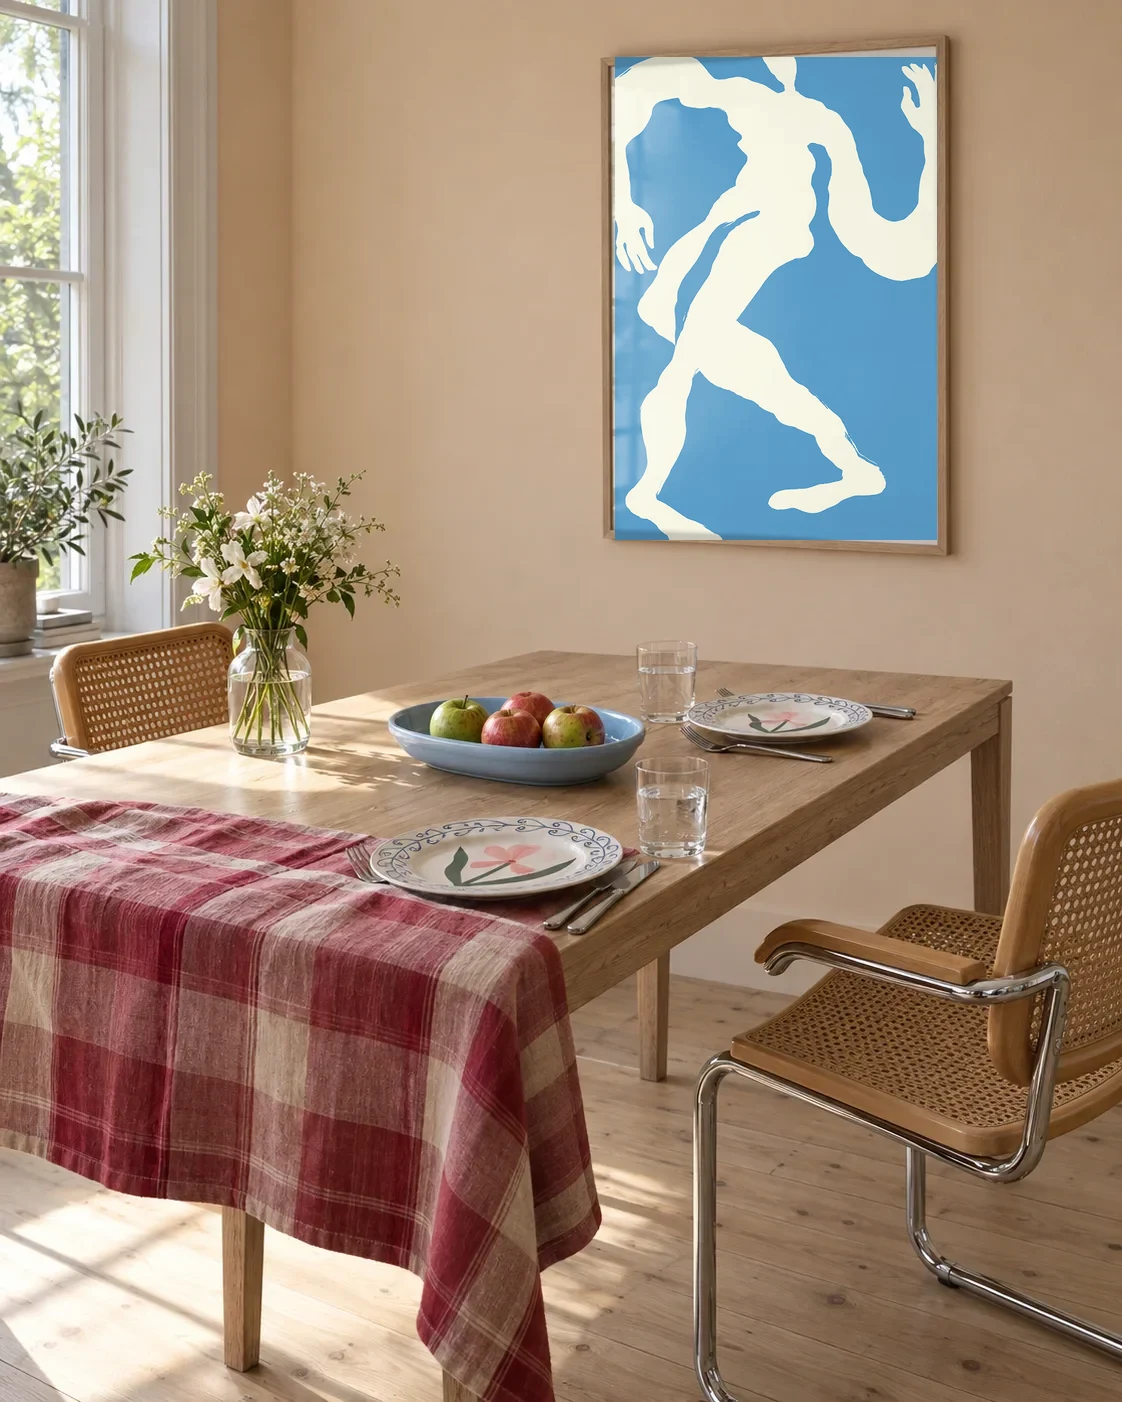
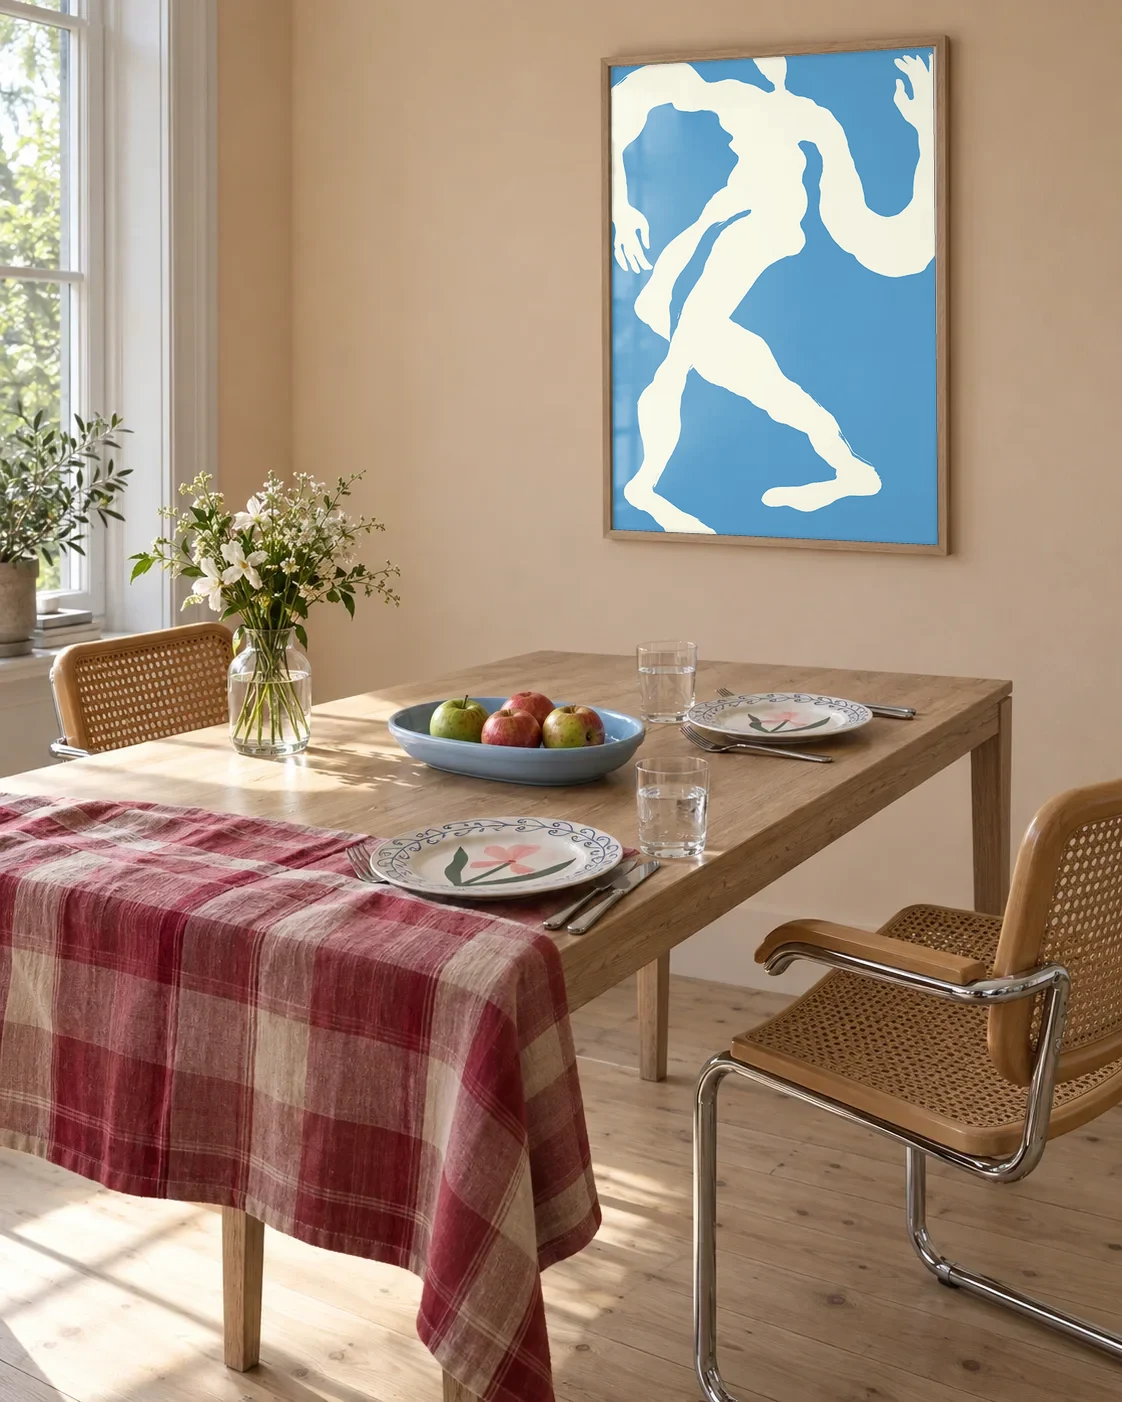
404: wall-style print card, and the print warped into the frame
The frame hangs in slight perspective, so the pasted rectangle left glass
showing at the top and right and ran over the moulding. frame_404.py now
fits the glass's four corners and warps each print onto them.

The control follows the Start from your wall card, without the swatches:
a Print picker over the photo (thumbnail, name, artist and price) and See
the print. Beside it, See all prints and See the artists. The photo is
cropped landscape from the top so frame and card show on first view; on a
phone the message comes first.

diff --git a/components/v2/not-found/NotFoundFrame.tsx b/components/v2/not-found/NotFoundFrame.tsx
@@ -4,51 +4,65 @@ import { useState } from 'react';
 import Image from 'next/image';
 import * as DropdownMenu from '@radix-ui/react-dropdown-menu';
 import { Button, TextLink } from '@/components/v2/ui';
+import { useLanguage } from '@/contexts/LanguageContext';
+import { formatDisplayPrice, getLowestProductPrices, type CurrencyPrices } from '@/lib/pricing';
 
 export interface FramePrint {
   slug: string;
   href: string;
   name: string;
   artist: string;
+  prices: Record<string, CurrencyPrices>;
+  /** The artwork thumbnail the wall picker uses (public/images/v2/wall/chips). */
+  chip: string;
   /** The room with this print hung in the frame (scripts/v2/frame_404.py). */
   composite: string;
 }
 
-/**
- * The 404's frame and its one control. "Fill the frame" is a small menu in
- * the Artist and Size panels' style, not a row of tiles: pick a print and it
- * hangs in the empty frame (a 250 ms crossfade, instant under reduced
- * motion), with a link to it underneath.
- */
-export function NotFoundFrame({
-  frameAlt,
-  heading,
-  body,
-  fillLabel,
-  seeLabel,
-  cta,
-  productsHref,
-  prints,
-}: {
+export interface NotFoundFrameCopy {
   frameAlt: string;
   heading: string;
   body: string;
-  fillLabel: string;
-  /** "See {name}". */
-  seeLabel: string;
-  cta: string;
-  productsHref: string;
+  printLabel: string;
+  choose: string;
+  seePrint: string;
+  allPrints: string;
+  artists: string;
+}
+
+/**
+ * The 404: the empty frame with a card over it in the Start from your wall
+ * style (the Print picker and See the print, no wall swatches). Choosing a
+ * print hangs it in the frame (a 250 ms crossfade, instant under reduced
+ * motion). Beside it, the message and the two ways on.
+ */
+export function NotFoundFrame({ t, prints, productsHref, artistsHref }: {
+  t: NotFoundFrameCopy;
   prints: FramePrint[];
+  productsHref: string;
+  artistsHref: string;
 }) {
-  const [hung, setHung] = useState<string>('');
+  const [hung, setHung] = useState('');
   const chosen = prints.find(p => p.slug === hung);
+  const { selectedCountry } = useLanguage();
+  const priceOf = (p: FramePrint) => formatDisplayPrice(getLowestProductPrices(p)[selectedCountry.currency], selectedCountry.currency);
+
+  const meta = (p: FramePrint) => (
+    <span className="flex items-center gap-[6px] type-caption">
+      <span>{p.artist}</span>
+      <span aria-hidden className="hairline" />
+      <span>{priceOf(p)}</span>
+    </span>
+  );
 
   return (
     <div className="page-grid gap-y-10 tab:items-center">
-      <div className="col-span-full tab:col-span-4 desk:col-span-6">
-        <div className="relative aspect-[4/5] w-full overflow-hidden bg-image-bg">
+      <div className="relative col-span-full flex flex-col gap-group tab:col-span-5 tab:block desk:col-span-7">
+        {/* Cropped from the top (the frame sits high in the photo), landscape
+            from tablet up so the frame and the card both show on first view. */}
+        <div className="relative aspect-square w-full overflow-hidden bg-image-bg tab:aspect-[5/4]">
           {/* The empty frame is the page's LCP image at every width. */}
-          <Image src="/images/v2/not-found/empty-frame.webp" alt={frameAlt} fill preload sizes="(max-width: 833px) 100vw, 50vw" className="object-cover" />
+          <Image src="/images/v2/not-found/empty-frame.webp" alt={t.frameAlt} fill preload sizes="(max-width: 833px) 100vw, 60vw" className="object-cover object-top" />
           {prints.map(p => (
             <Image
               key={p.slug}
@@ -56,55 +70,79 @@ export function NotFoundFrame({
               alt=""
               aria-hidden
               fill
-              sizes="(max-width: 833px) 100vw, 50vw"
-              className={`object-cover transition-opacity duration-[250ms] ease-out motion-reduce:transition-none ${hung === p.slug ? 'opacity-100' : 'opacity-0'}`}
+              sizes="(max-width: 833px) 100vw, 60vw"
+              className={`object-cover object-top transition-opacity duration-[250ms] ease-out motion-reduce:transition-none ${hung === p.slug ? 'opacity-100' : 'opacity-0'}`}
             />
           ))}
         </div>
-      </div>
-
-      <div className="col-span-full flex flex-col items-start tab:col-span-4 desk:col-span-5 desk:col-start-8">
-        <h1 className="type-display">{heading}</h1>
-        <p className="mt-6 type-body tab:type-lead">{body}</p>
 
         {prints.length > 0 && (
-          <div className="mt-8 flex flex-wrap items-center gap-x-6 gap-y-2">
-            <DropdownMenu.Root modal={false}>
-              <DropdownMenu.Trigger className="group/fill inline-flex items-center gap-[6px] type-small transition-colors hover:text-brand focus-visible:outline-2 focus-visible:outline-offset-2 focus-visible:outline-focus data-[state=open]:text-brand">
-                <span>{chosen ? `${fillLabel}: ${chosen.name}` : fillLabel}</span>
-                <svg aria-hidden width="8" height="4" viewBox="0 0 8 4" fill="none" className="transition-transform duration-200 group-data-[state=open]/fill:rotate-180 motion-reduce:transition-none">
-                  <path d="M.5.5 4 3.5 7.5.5" stroke="currentColor" />
-                </svg>
-              </DropdownMenu.Trigger>
-              <DropdownMenu.Portal>
-                <DropdownMenu.Content
-                  align="start"
-                  sideOffset={10}
-                  className="z-50 min-w-56 border border-line bg-bg p-3 text-ink outline-hidden data-[state=open]:animate-in data-[state=closed]:animate-out data-[state=closed]:fade-out-0 data-[state=open]:fade-in-0 motion-reduce:animate-none"
-                >
-                  <DropdownMenu.Label className="mb-2 type-caption">{fillLabel}</DropdownMenu.Label>
-                  <DropdownMenu.RadioGroup value={hung} onValueChange={setHung} className="space-y-0.5">
-                    {prints.map(p => (
-                      <DropdownMenu.RadioItem
-                        key={p.slug}
-                        value={p.slug}
-                        className="flex cursor-pointer items-baseline justify-between gap-6 px-2 py-1.5 type-small outline-hidden data-highlighted:bg-surface data-[state=checked]:bg-surface"
-                      >
-                        <span>{p.name}</span>
-                        <span className="type-caption text-ink/60">{p.artist}</span>
-                      </DropdownMenu.RadioItem>
-                    ))}
-                  </DropdownMenu.RadioGroup>
-                </DropdownMenu.Content>
-              </DropdownMenu.Portal>
-            </DropdownMenu.Root>
-            {chosen && (
-              <TextLink href={chosen.href} size="small">{seeLabel.replace('{name}', chosen.name)}</TextLink>
+          <div className="flex flex-col gap-group tab:absolute tab:bottom-6 tab:left-6 tab:w-[360px] tab:bg-bg tab:p-6">
+            <div>
+              <span className="mb-3 block type-small tab:mb-2 tab:type-caption">{t.printLabel}</span>
+              <DropdownMenu.Root modal={false}>
+                <DropdownMenu.Trigger className="group/pick flex w-full items-center gap-3 border border-line-strong bg-bg py-[6px] pl-[6px] pr-[14px] text-left focus-visible:outline-2 focus-visible:outline-offset-2 focus-visible:outline-focus">
+                  {chosen ? (
+                    <Image src={chosen.chip} alt="" width={36} height={36} sizes="36px" className="size-9 shrink-0 bg-image-bg object-cover" />
+                  ) : (
+                    <span aria-hidden className="size-9 shrink-0 border border-line bg-image-bg" />
+                  )}
+                  <span className="flex min-w-0 flex-1 flex-col">
+                    <span className="type-small">{chosen ? chosen.name : t.choose}</span>
+                    {chosen && meta(chosen)}
+                  </span>
+                  <svg aria-hidden width="10" height="6" viewBox="0 0 10 6" fill="none" className="shrink-0 transition-transform group-data-[state=open]/pick:rotate-180 motion-reduce:transition-none">
+                    <path d="M.5.5 5 5 9.5.5" stroke="currentColor" />
+                  </svg>
+                </DropdownMenu.Trigger>
+                <DropdownMenu.Portal>
+                  <DropdownMenu.Content
+                    side="top"
+                    align="start"
+                    sideOffset={-1}
+                    className="z-50 w-(--radix-dropdown-menu-trigger-width) border border-ink bg-bg p-0 text-ink outline-hidden"
+                  >
+                    <DropdownMenu.RadioGroup value={hung} onValueChange={setHung}>
+                      {prints.map(p => (
+                        <DropdownMenu.RadioItem
+                          key={p.slug}
+                          value={p.slug}
+                          className="flex cursor-pointer items-center gap-3 border-b border-line py-[6px] pl-[6px] pr-[14px] outline-hidden last:border-b-0 data-highlighted:bg-surface"
+                        >
+                          <Image src={p.chip} alt="" width={36} height={36} sizes="36px" className="size-9 shrink-0 bg-image-bg object-cover" />
+                          <span className="flex min-w-0 flex-1 flex-col">
+                            <span className="flex items-center gap-[6px] type-small">
+                              {p.slug === hung && <span aria-hidden className="hairline" />}
+                              {p.name}
+                            </span>
+                            {meta(p)}
+                          </span>
+                        </DropdownMenu.RadioItem>
+                      ))}
+                    </DropdownMenu.RadioGroup>
+                  </DropdownMenu.Content>
+                </DropdownMenu.Portal>
+              </DropdownMenu.Root>
+            </div>
+            {chosen ? (
+              <Button href={chosen.href} className="self-start tab:w-full tab:self-stretch">{t.seePrint}</Button>
+            ) : (
+              // Until a print is chosen there is nothing to see: the same
+              // button, dimmed and inert, so the card never changes size.
+              <Button type="button" disabled className="self-start tab:w-full tab:self-stretch">{t.seePrint}</Button>
             )}
           </div>
         )}
+      </div>
 
-        <Button href={productsHref} className="mt-10 tab:mt-band">{cta}</Button>
+      {/* First on a phone, so the message leads; beside the frame from tablet up. */}
+      <div className="order-first col-span-full flex flex-col items-start tab:order-none tab:col-span-3 desk:col-span-4 desk:col-start-9">
+        <h1 className="type-display">{t.heading}</h1>
+        <p className="mt-6 type-body tab:type-lead">{t.body}</p>
+        <div className="mt-10 flex flex-wrap items-center gap-x-8 gap-y-4 tab:mt-band">
+          <Button href={productsHref}>{t.allPrints}</Button>
+          <TextLink href={artistsHref} size="body">{t.artists}</TextLink>
+        </div>
       </div>
     </div>
   );

diff --git a/components/v2/not-found/NotFoundBody.tsx b/components/v2/not-found/NotFoundBody.tsx
@@ -4,11 +4,11 @@ import { getAllProducts } from '@/lib/products';
 
 /**
  * The 404 page's body (Figma: 404 · desktop 221:3986, mobile 221:4072).
- * "Nothing hangs here": an empty frame on a wall, one line, a small "Fill the
- * frame" menu that hangs a print in it, and one way on. Mark (2026-09-26) kept
- * the idea and the copy and asked for it much simpler: the row of print tiles
- * became that menu, and the search and link list are gone (the header already
- * carries both).
+ * "Nothing hangs here": an empty frame on a wall with a card over it (the
+ * Start from your wall picker: choose a print, it hangs in the frame, See the
+ * print), then the message with See all prints and See the artists. Mark
+ * (2026-09-26) kept the idea and the copy and asked for it much simpler: the
+ * row of print tiles, the search and the link list are gone.
  *
  * Rendered in three places, always inside the site's own header and footer:
  * - app/(en)/not-found.tsx and app/(no)/not-found.tsx, when a page calls
@@ -25,18 +25,22 @@ export const NOT_FOUND_COPY = {
     heading: 'Nothing hangs here.',
     body: 'The page you were after has moved, or it was never here. Something else could fill the space.',
     frameAlt: 'An empty picture frame on a peach wall above a set dining table',
-    fill: 'Fill the frame',
-    see: 'See {name}',
-    cta: 'See the prints',
+    printLabel: 'Print',
+    choose: 'Choose a print for the frame',
+    seePrint: 'See the print',
+    allPrints: 'See all prints',
+    artists: 'See the artists',
   },
   no: {
     title: 'Fant ikke siden | Scandinavian Art',
     heading: 'Her henger det ingenting.',
     body: 'Siden du lette etter er flyttet, eller den har aldri vært her. Noe annet kan fylle plassen.',
     frameAlt: 'En tom bilderamme på en ferskenfarget vegg over et dekket spisebord',
-    fill: 'Fyll rammen',
-    see: 'Se {name}',
-    cta: 'Se trykkene',
+    printLabel: 'Trykk',
+    choose: 'Velg et trykk til rammen',
+    seePrint: 'Se trykket',
+    allPrints: 'Se alle trykk',
+    artists: 'Se kunstnerne',
   },
 } as const;
 
@@ -53,7 +57,7 @@ export async function NotFoundBody({ locale }: { locale: 'en' | 'no' }) {
   const prints: FramePrint[] = FILL.flatMap(slug => {
     const x = products.find(item => item.slug === slug);
     if (!x || !x.prices['50x70cm']) return [];
-    return [{ slug, href: `${p}/product/${slug}`, name: x.name, artist: x.artist ?? '', composite: `/images/v2/not-found/fill-${slug}.webp` }];
+    return [{ slug, href: `${p}/product/${slug}`, name: x.name, artist: x.artist ?? '', prices: x.prices, chip: `/images/v2/wall/chips/${slug}.jpg`, composite: `/images/v2/not-found/fill-${slug}.webp` }];
   });
   return (
     <>
@@ -62,16 +66,7 @@ export async function NotFoundBody({ locale }: { locale: 'en' | 'no' }) {
       <meta name="robots" content="noindex" />
       <TrackNotFound />
       <div className="page-x pt-6 pb-section tab:pt-band">
-        <NotFoundFrame
-          frameAlt={t.frameAlt}
-          heading={t.heading}
-          body={t.body}
-          fillLabel={t.fill}
-          seeLabel={t.see}
-          cta={t.cta}
-          productsHref={`${p}/products`}
-          prints={prints}
-        />
+        <NotFoundFrame t={t} prints={prints} productsHref={`${p}/products`} artistsHref={`${p}/artists`} />
       </div>
     </>
   );

diff --git a/scripts/v2/frame_404.py b/scripts/v2/frame_404.py
@@ -2,9 +2,10 @@
 """The 404's "Fill the frame" states: each print hung in the empty frame.
 
 The artwork (the flat crop the wall tool uses, public/images/v2/wall/prints)
-fills the whole glass opening edge to edge, cover-cropped to the opening's
-shape, and is lit by the empty glass's own shading so the window light and
-reflection sit over it. Deterministic; nothing is generated.
+fills the whole glass opening edge to edge: cover-cropped to the opening's
+shape, warped onto its four corners (the frame hangs in slight perspective),
+and lit by the empty glass's own shading so the window light and reflection
+sit over it. Deterministic; nothing is generated.
 
     python3 scripts/v2/frame_404.py dancer dragon hyttefrokost
 """
@@ -16,32 +17,60 @@ from PIL import Image, ImageFilter
 ROOT = Path(__file__).resolve().parents[2]
 DIR = ROOT / "public/images/v2/not-found"
 EMPTY = DIR / "empty-frame.webp"
-# The glass opening inside the moulding, measured on the 1122 x 1402 image.
-X0, Y0, X1, Y1 = 615, 57, 937, 540
+# The glass opening's corners (TL, TR, BR, BL) on the 1122 x 1402 image. The
+# frame hangs in slight perspective (its right side is nearer, so taller), so
+# the print is warped onto this quad rather than pasted as a rectangle. Found
+# by fitting a line to each edge of the neutral glass against the warm
+# moulding, then pushed 1 px outward so no glass shows at the lip.
+QUAD = [(611.0, 67.0), (933.0, 47.0), (938.0, 545.0), (613.0, 529.5)]
+SS = 4  # supersampling for the quad's edge
+
+
+def _coeffs(src, dst):
+    """PIL PERSPECTIVE coefficients mapping output points dst -> input points src."""
+    A, B = [], []
+    for (x, y), (u, v) in zip(dst, src):
+        A += [[x, y, 1, 0, 0, 0, -u * x, -u * y], [0, 0, 0, x, y, 1, -v * x, -v * y]]
+        B += [u, v]
+    return np.linalg.solve(np.array(A, float), np.array(B, float)).tolist()
 
 
 def hang(slug: str) -> Path:
     room = Image.open(EMPTY).convert("RGB")
-    w, h = X1 - X0, Y1 - Y0
+    W, H = room.size
+    xs = [p[0] for p in QUAD]; ys = [p[1] for p in QUAD]
+    # The opening's shape, from the average side lengths.
+    ow = ((QUAD[1][0] - QUAD[0][0]) + (QUAD[2][0] - QUAD[3][0])) / 2
+    oh = ((QUAD[3][1] - QUAD[0][1]) + (QUAD[2][1] - QUAD[1][1])) / 2
     art = Image.open(ROOT / f"public/images/v2/wall/prints/{slug}.jpg").convert("RGB")
-    # Cover-crop to the opening's shape, centred.
-    ar, tr = art.width / art.height, w / h
+    ar, tr = art.width / art.height, ow / oh
     if ar > tr:
         nw = round(art.height * tr); x = (art.width - nw) // 2
         art = art.crop((x, 0, x + nw, art.height))
     else:
         nh = round(art.width / tr); y = (art.height - nh) // 2
         art = art.crop((0, y, art.width, y + nh))
-    art = np.asarray(art.resize((w, h), Image.LANCZOS)).astype(np.float32) / 255
-    glass = room.crop((X0, Y0, X1, Y1)).convert("L").filter(ImageFilter.GaussianBlur(2))
-    g = np.asarray(glass).astype(np.float32)
-    shade = np.clip(g / np.median(g), 0.8, 1.15)[..., None]
-    lit = art * np.minimum(shade, 1.0)
-    # Where the glass is brighter than the paper (the window's reflection), screen it on.
+    aw, ah = art.size
+    # Warp the artwork onto the quad, at SS x for a clean edge.
+    big = [(x * SS, y * SS) for x, y in QUAD]
+    warped = art.transform((W * SS, H * SS), Image.PERSPECTIVE,
+                           _coeffs([(0, 0), (aw, 0), (aw, ah), (0, ah)], big), Image.BICUBIC)
+    mask = Image.new("L", (W * SS, H * SS), 0)
+    from PIL import ImageDraw
+    ImageDraw.Draw(mask).polygon(big, fill=255)
+    warped = warped.resize((W, H), Image.LANCZOS)
+    mask = mask.resize((W, H), Image.LANCZOS)
+    # Light it with the empty glass's own shading (window light, reflection).
+    g = np.asarray(room.convert("L").filter(ImageFilter.GaussianBlur(2))).astype(np.float32)
+    inside = np.asarray(mask) > 250
+    shade = np.clip(g / np.median(g[inside]), 0.8, 1.15)[..., None]
+    a = np.asarray(warped).astype(np.float32) / 255
+    lit = a * np.minimum(shade, 1.0)
     glow = np.clip(shade - 1.0, 0, None) * 2.2
     lit = 1 - (1 - lit) * (1 - glow)
-    out = np.asarray(room).astype(np.float32) / 255
-    out[Y0:Y1, X0:X1] = lit
+    base = np.asarray(room).astype(np.float32) / 255
+    m = (np.asarray(mask).astype(np.float32) / 255)[..., None]
+    out = base * (1 - m) + lit * m
     dest = DIR / f"fill-{slug}.webp"
     Image.fromarray((np.clip(out, 0, 1) * 255).round().astype(np.uint8)).save(dest, quality=88, method=6)
     return dest
